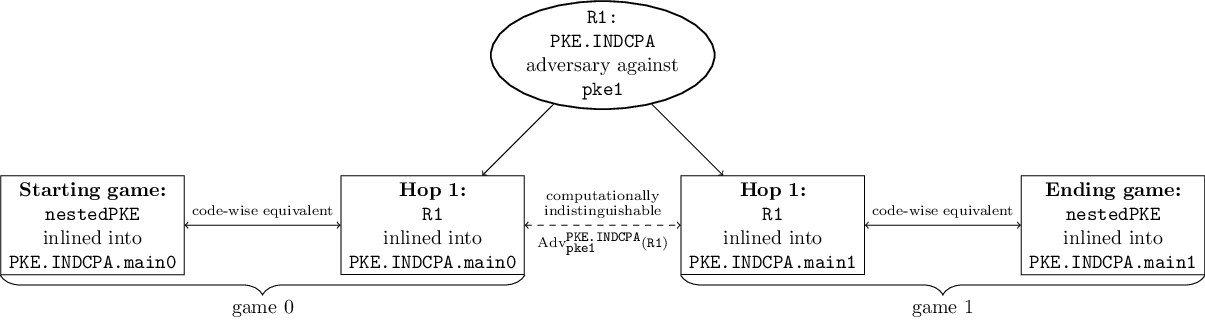
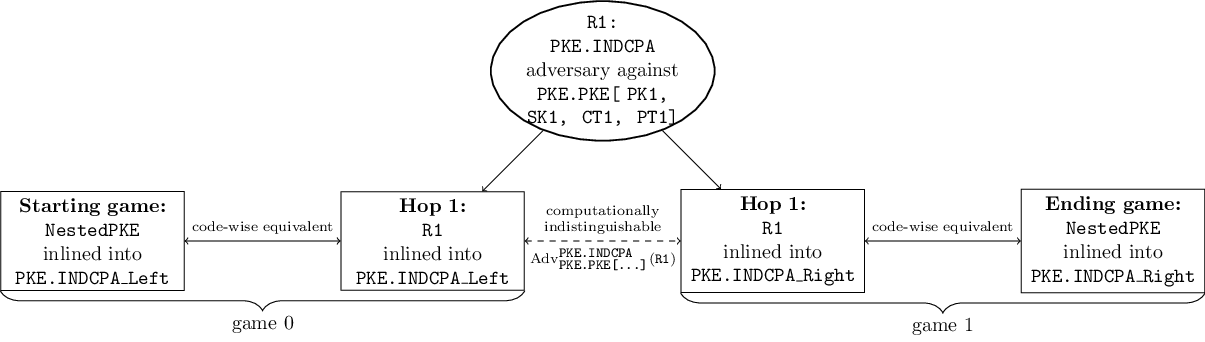
Update proof figure

diff --git a/gamehop/templates/tikz_figure.tex b/gamehop/templates/tikz_figure.tex
@@ -16,19 +16,23 @@
 	yscale=3,
 ]
 
+% STARTING GAME
 ≤% if proof.experiment|isinstance("Crypto.DistinguishingExperiment") %≥
 	\node [game] (startinggame) at (0,0) {\textbf{Starting game:} \\ \texttt{≤≤ proof.scheme|classname|texify ≥≥} \\ inlined into \\ \texttt{≤≤ proof.experiment.get_left()|classname|texify ≥≥}};
 ≤% endif %≥
 
+% ITERATE THROUGH PROOF STEPS
 ≤% for proofstep in proof.proof_steps %≥
 
 	≤% if proofstep|type == "DistinguishingProofStep" %≥
 
+		% BOX FOR THE HOP'S LEFT COMPONENT
 		\node [game] 
 			(hop≤≤ loop.index ≥≥left) 
 			at (≤≤ loop.index * 4 - 2 ≥≥,0) 
 			{\textbf{Hop ≤≤ loop.index ≥≥:} \\ \texttt{≤≤ proofstep.reduction|classname|texify ≥≥} \\ inlined into \\ \texttt{≤≤ proofstep.experiment.get_right()|classname|texify if proofstep.reverseDirection else proofstep.experiment.get_left()|classname|texify ≥≥}};
 
+		% BOX FOR THE HOP'S RIGHT COMPONENT
 		\node [game] 
 			(hop≤≤ loop.index ≥≥right) 
 			at (≤≤ loop.index * 4 ≥≥,0) 
@@ -36,11 +40,13 @@
 	
 	≤% elif proofstep|type == "RewritingStep" %≥
 	
+		% BOX FOR THE HOP'S LEFT COMPONENT
 		\node [game] 
 			(hop≤≤ loop.index ≥≥left) 
 			at (≤≤ loop.index * 4 - 2 ≥≥,0) 
 			{\textbf{Hop ≤≤ loop.index ≥≥:} \\ rewriting step \\ (before rewrite) \\ \ };
 
+		% BOX FOR THE HOP'S RIGHT COMPONENT
 		\node [game] 
 			(hop≤≤ loop.index ≥≥right) 
 			at (≤≤ loop.index * 4 ≥≥,0) 
@@ -49,45 +55,56 @@
 	≤% endif %≥
 
 	≤% if loop.index0 == 0 %≥
-	\draw [isequivalentto] 
-		(startinggame) 
-		-- 
-		node[mainarrowlabel,above] {code-wise equivalent}
-		(hop1left);
-	\draw [decorate,decoration={brace,amplitude=10pt,mirror}]
-		(startinggame.south west) -- (hop≤≤ loop.index ≥≥left.south east) 
-		node[black,midway,yshift=-0.6cm] {game ≤≤ loop.index0 ≥≥};
+
+		% ARROW BETWEEN STARTING GAME AND HOP 1 LEFT
+		\draw [isequivalentto] 
+			(startinggame) 
+			-- 
+			node[mainarrowlabel,above] {code-wise equivalent}
+			(hop1left);
+		% BRACE UNDER GAME 0
+		\draw [decorate,decoration={brace,amplitude=10pt,mirror}]
+			(startinggame.south west) -- (hop≤≤ loop.index ≥≥left.south east) 
+			node[black,midway,yshift=-0.6cm] {game ≤≤ loop.index0 ≥≥};
 
 	≤% else %≥
-	\draw [isequivalentto]
-		(hop≤≤ loop.index-1 ≥≥right)
-		--
-		node[mainarrowlabel,above] {code-wise equivalent}
-		(hop≤≤ loop.index ≥≥left);
-	\draw [decorate,decoration={brace,amplitude=10pt,mirror}]
-		(hop≤≤ loop.index - 1 ≥≥right.south west) -- (hop≤≤ loop.index ≥≥left.south east) 
-		node[black,midway,yshift=-0.6cm] {game ≤≤ loop.index0 ≥≥};
+
+		% ARROW BETWEEN PREVIOUS GAME AND THIS GAME LEFT
+		\draw [isequivalentto]
+			(hop≤≤ loop.index-1 ≥≥right)
+			--
+			node[mainarrowlabel,above] {code-wise equivalent}
+			(hop≤≤ loop.index ≥≥left);
+		% BRACE UNDER THIS GAME
+		\draw [decorate,decoration={brace,amplitude=10pt,mirror}]
+			(hop≤≤ loop.index - 1 ≥≥right.south west) -- (hop≤≤ loop.index ≥≥left.south east) 
+			node[black,midway,yshift=-0.6cm] {game ≤≤ loop.index0 ≥≥};
+
 	≤% endif %≥
 
 	≤% if proofstep|type == 'DistinguishingProofStep' %≥
 
+		% NODE FOR THE REDUCTION
 		\node [reduction]
 			(reduction≤≤ loop.index ≥≥)
 			at (≤≤ loop.index * 4 - 1 ≥≥,1)
 			{\texttt{≤≤ proofstep.reduction|classname|texify ≥≥:} \\ \texttt{≤≤ proofstep.experiment.get_name()|texify ≥≥} \\ adversary against \\ \texttt{≤≤ proofstep.scheme|classname|texify ≥≥}};
 
+		% ARROWS FROM THE REDUCTION TO THE MAIN LINE GAMES
 		\draw [->] (reduction≤≤ loop.index ≥≥) -- (hop≤≤ loop.index ≥≥left);
 		\draw [->] (reduction≤≤ loop.index ≥≥) -- (hop≤≤ loop.index ≥≥right);
 
+		% ARROW BETWEEN THE MAIN LINE GAMES
 		\draw [iscomputationallyindistuishable]
 			(hop≤≤ loop.index ≥≥left)
 			--
 			node[mainarrowlabel,above] {computationally \\ indistinguishable}
-			node[mainarrowlabel,below] {$\mathrm{Adv}^{\texttt{≤≤ proofstep.experiment.get_name()|texify ≥≥}}_{\texttt{≤≤ proofstep.scheme|classname|texify ≥≥}}(\texttt{≤≤ proofstep.reduction|classname|texify ≥≥})$}
+			node[mainarrowlabel,below] {$\mathrm{Adv}^{\texttt{≤≤ proofstep.experiment.get_name()|texify ≥≥}}_{\texttt{≤≤ proofstep.scheme|classname|nogenerics|texify ≥≥}}(\texttt{≤≤ proofstep.reduction|classname|texify ≥≥})$}
 			(hop≤≤ loop.index ≥≥right);
 	
 	≤% elif proofstep|type == 'RewritingStep' %≥
 
+		% ARROW BETWEEN THE MAIN LINE GAMES
 		\draw [iscomputationallyindistuishable]
 			(hop≤≤ loop.index ≥≥left)
 			--
@@ -98,13 +115,16 @@
 
 ≤% endfor %≥
 
+% ENDING GAME
 \node [game] (endinggame) at (≤≤ proof.proof_steps|length * 4 + 2 ≥≥,0) {\textbf{Ending game:} \\ \texttt{≤≤ proof.scheme|classname|texify ≥≥} \\ inlined into \\ \texttt{≤≤ proof.experiment.get_right()|classname|texify ≥≥}};
 
+% ARROW BETWEEN PREVIOUS GAME RIGHT AND THE ENDING GAME
+\draw [isequivalentto] (hop≤≤ proof.proof_steps|length ≥≥right) -- node[mainarrowlabel,above] {code-wise equivalent} (endinggame);
+
+% BRACE UNDER ENDING GAME
 \draw [decorate,decoration={brace,amplitude=10pt,mirror}]
 	(hop≤≤ proof.proof_steps|length ≥≥right.south west) -- (endinggame.south east)
 	node[black,midway,yshift=-0.6cm] {game ≤≤ proof.proof_steps|length ≥≥};
-
-\draw [isequivalentto] (hop≤≤ proof.proof_steps|length ≥≥right) -- node[mainarrowlabel,above] {code-wise equivalent} (endinggame);
 
 \end{tikzpicture}
 	

diff --git a/gamehop/proofs2.py b/gamehop/proofs2.py
@@ -162,6 +162,10 @@ class Proof():
             variable_end_string='≥≥'
         )
         env.filters['classname'] = lambda value: utils.fqn(value)
+        def nogenerics(s):
+            if s.find('[') == -1: return s
+            return s[:s.find('[')] + "[...]"
+        env.filters['nogenerics'] = nogenerics
         env.filters['type'] = lambda value: type(value).__name__
         env.filters['isinstance'] = lambda value, type_to_test: isinstance(value, eval(type_to_test))
         env.filters['texify'] = lambda value: value.replace('_', '\_')
